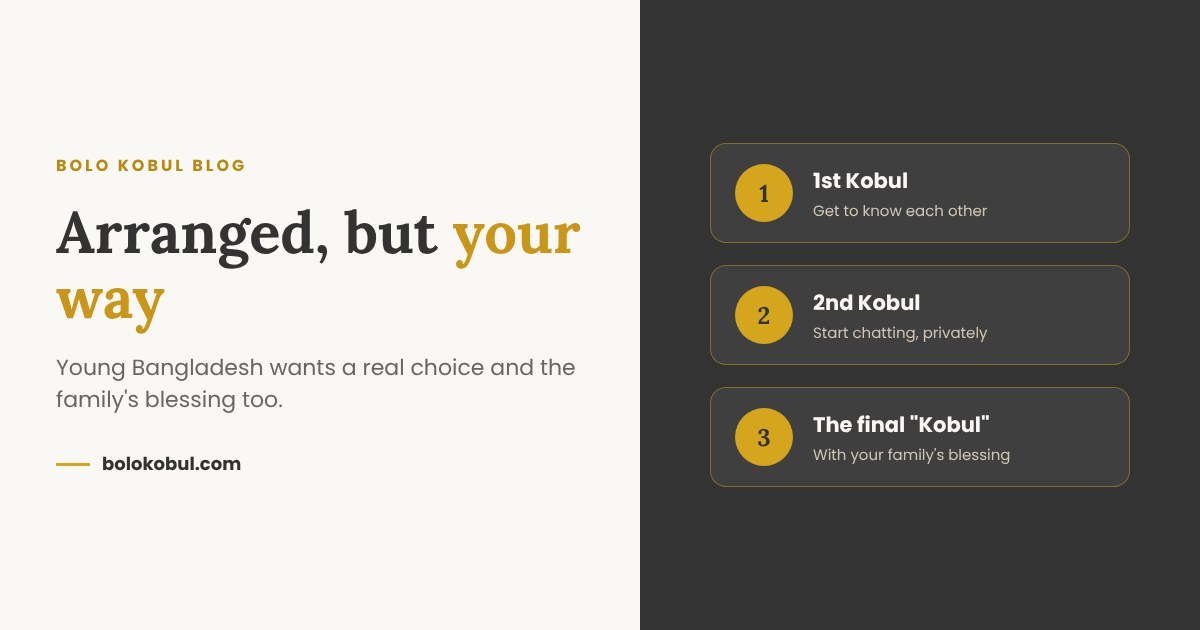
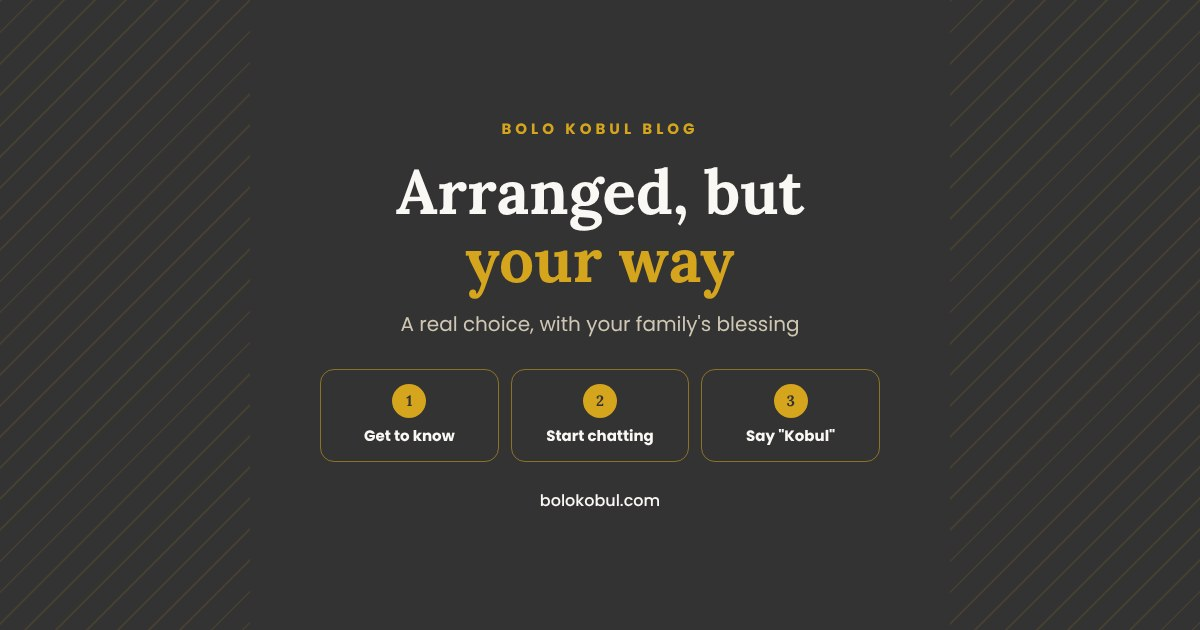
Blog cover redesigned to fit the square card preview; script can replace the picture
Claude-Session: https://claude.ai/code/session_01SJ9o3YHJRso1Srbi557qJo

diff --git a/script/publish_blog_arranged_your_way.rb b/script/publish_blog_arranged_your_way.rb
@@ -1,6 +1,7 @@
 # Publishes the blog article "Arranged, But Your Way" (16 Nov 2026) with its cover picture.
 # Run on the server:  RAILS_ENV=production bundle exec rails runner script/publish_blog_arranged_your_way.rb
 # Undo (removes it):  RAILS_ENV=production bundle exec rails runner script/publish_blog_arranged_your_way.rb undo
+# New picture only:   RAILS_ENV=production bundle exec rails runner script/publish_blog_arranged_your_way.rb image
 TITLE = 'Arranged, But Your Way: How Young Bangladesh Is Rewriting Marriage'.freeze
 IMAGE = Rails.root.join('script/blog_images/arranged-but-your-way.jpg')
 
@@ -60,6 +61,15 @@ if ARGV.first == 'undo'
   abort 'Not found: nothing to remove.' unless blog
   blog.destroy!
   puts "Removed: #{TITLE}"
+  exit
+end
+
+if ARGV.first == 'image'
+  blog = Blog.find_by(title: TITLE)
+  abort 'Not published yet: run the script without "image" first.' unless blog
+  blog.image.attach(io: File.open(IMAGE), filename: 'arranged-but-your-way.jpg', content_type: 'image/jpeg')
+  blog.touch
+  puts "Picture replaced: https://bolokobul.com/blogs/#{blog.slug}"
   exit
 end
 
